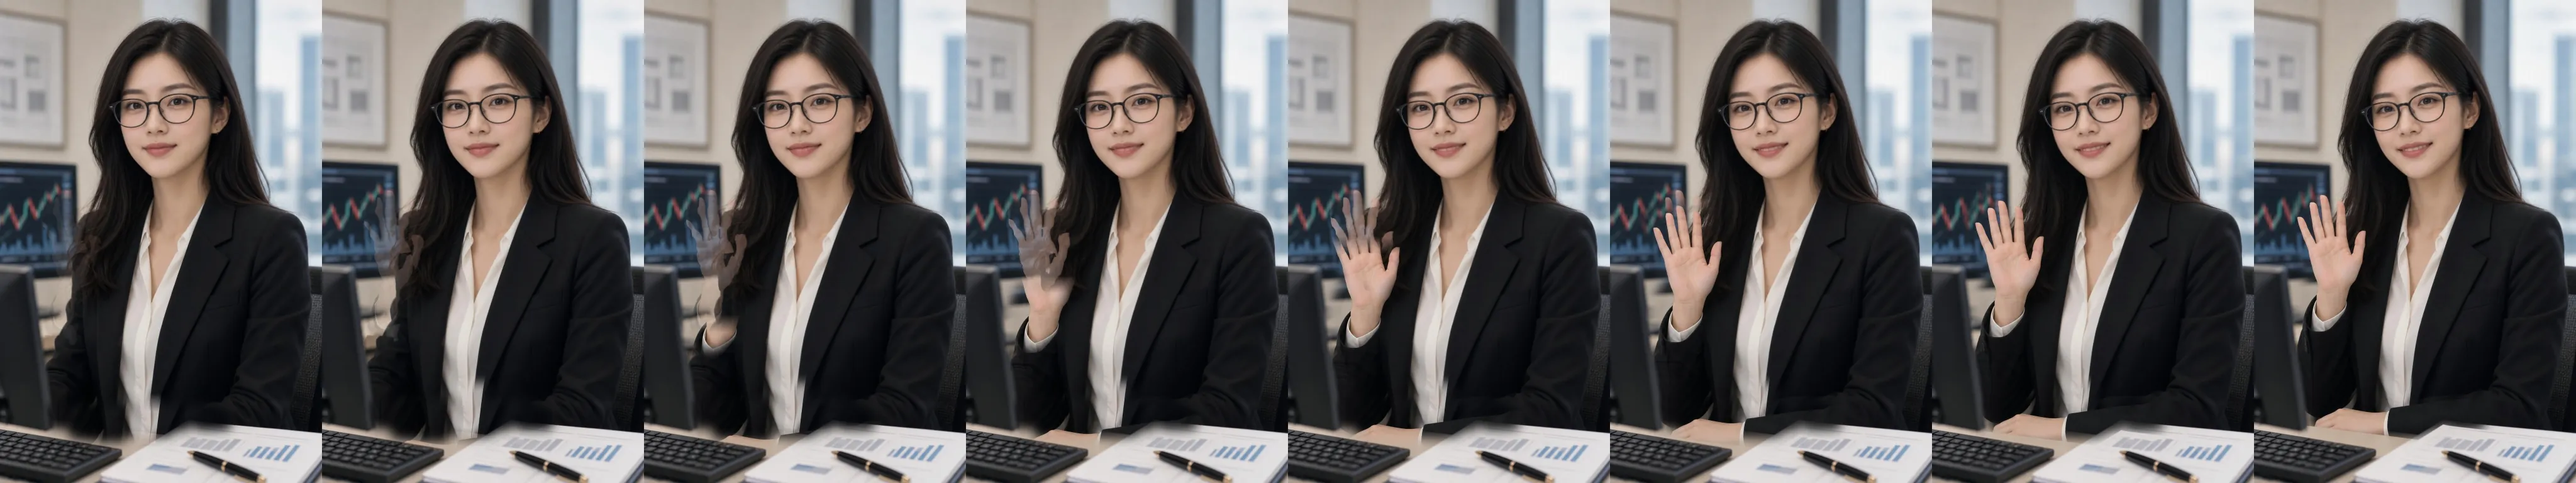
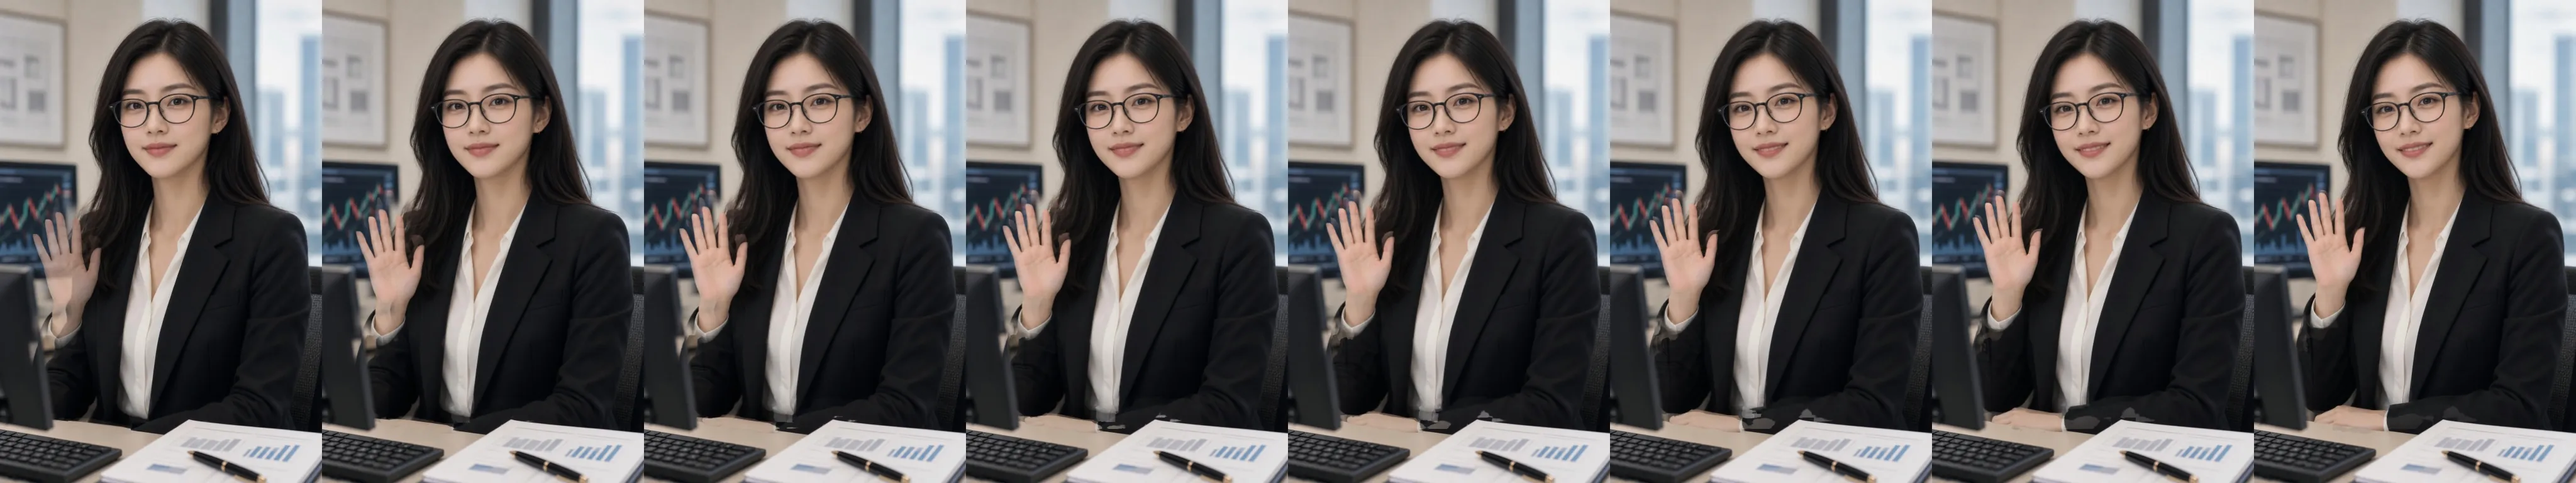
Let the rising hand travel from where it starts instead of wiping in
With the mid-rise keyframes in place, a raised hand is cut out of the
target frame (the skin only, so the dark sleeve stays with the dissolve)
and moves from where it begins to where it ends while gaining opacity: from
the lower hand pose when there is one, otherwise up over the bottom edge as
if from the lap. The earlier wipe pushed the whole frame down and uncovered
it from below, which showed a dark patch of blazer where the hand would be
and smeared the desk. Only the largest residual blob is treated as the
hand; smaller differences are left to the flow dissolve.

Claude-Session: https://claude.ai/code/session_01UoMk6AK8LDrTkKtKKWvV1s

diff --git a/tools/morph_frames.py b/tools/morph_frames.py
@@ -8,8 +8,9 @@ For each pair of poses (the resting portrait and the keyframes in fin-lab/assets
 this computes optical flow between the two photographs and synthesises K frames that warp
 and dissolve one into the other, so a blink closes gradually, a head tilt turns, and a
 hand rises into view instead of appearing.  Where something new enters the picture (a
-raised hand) the flow has nothing to track, so that region is revealed with a soft wipe
-from the bottom up while it slides into place.
+raised hand) the flow has nothing to track, so the hand is cut out of the target frame and
+travels from where it starts (the lower hand pose, or below its place) to where it ends,
+gaining opacity on the way.
 
 Output: fin-lab/assets/frames/morph/<a>-<b>.webp, a horizontal strip of the K in-betweens
 (played left to right for a -> b, right to left for b -> a), plus morph/manifest.json and
@@ -65,10 +66,10 @@ def main(argv: list[str] | None = None) -> int:
         return dis.calc(cv2.cvtColor(a, cv2.COLOR_BGR2GRAY), cv2.cvtColor(b, cv2.COLOR_BGR2GRAY), None)
 
     def appearance_mask(a, b, fab):
-        """Where b shows something that is not in a at all (a hand coming up).  A head turn or a
-        blink is explained by the flow, so warping a onto b leaves little residual there; a new
-        object leaves a large blob of residual.  Returns a feathered float mask in [0,1] and its
-        bounding box, or None."""
+        """The region of b that a cannot account for (a hand that is up in b): warping a onto b
+        with the flow leaves a large blob of residual there, while a head turn or a blink is
+        explained by the flow.  Returns a feathered float mask in [0,1] and its centroid (y, x),
+        or (None, None)."""
         ys, xs = np.mgrid[0:H, 0:W].astype(np.float32)
         warped = cv2.remap(a, xs - fab[..., 0], ys - fab[..., 1], cv2.INTER_LINEAR, borderMode=cv2.BORDER_REFLECT)
         diff = cv2.absdiff(cv2.cvtColor(warped, cv2.COLOR_BGR2GRAY), cv2.cvtColor(b, cv2.COLOR_BGR2GRAY))
@@ -76,27 +77,48 @@ def main(argv: list[str] | None = None) -> int:
         mask = (diff > 28).astype(np.uint8)
         mask = cv2.morphologyEx(mask, cv2.MORPH_OPEN, np.ones((7, 7), np.uint8))
         mask = cv2.morphologyEx(mask, cv2.MORPH_CLOSE, np.ones((31, 31), np.uint8))
-        mask = cv2.dilate(mask, np.ones((21, 21), np.uint8))
-        n, labels, stats, _ = cv2.connectedComponentsWithStats(mask)
-        keep = np.zeros_like(mask)
-        for i in range(1, n):
-            if stats[i, cv2.CC_STAT_AREA] > 0.012 * W * H:
-                keep[labels == i] = 1
-        if not keep.any():
+        mask = cv2.dilate(mask, np.ones((17, 17), np.uint8))
+        n, labels, stats, cents = cv2.connectedComponentsWithStats(mask)
+        if n < 2:
             return None, None
-        ys, xs = np.where(keep)
-        box = (xs.min(), ys.min(), xs.max(), ys.max())
-        feather = cv2.GaussianBlur(keep.astype(np.float32), (0, 0), 8)
-        return np.clip(feather / max(feather.max(), 1e-6), 0, 1), box
+        # the hand is the largest blob; smaller differences (a sleeve on the desk) are left to the dissolve
+        big = 1 + int(np.argmax(stats[1:, cv2.CC_STAT_AREA]))
+        if stats[big, cv2.CC_STAT_AREA] < 0.012 * W * H:
+            return None, None
+        keep = (labels == big).astype(np.uint8)
+        # only the hand travels: the dark sleeve stays with the dissolve, so it never smears
+        # across the desk on its way up
+        ycc = cv2.cvtColor(b, cv2.COLOR_BGR2YCrCb)
+        skin = ((ycc[..., 1] > 133) & (ycc[..., 1] < 178) & (ycc[..., 2] > 80) & (ycc[..., 2] < 135) & (ycc[..., 0] > 60)).astype(np.uint8)
+        skin = cv2.morphologyEx(skin, cv2.MORPH_CLOSE, np.ones((9, 9), np.uint8))
+        skin = cv2.dilate(skin, np.ones((7, 7), np.uint8))
+        hand = keep & skin
+        if hand.sum() > 0.004 * W * H:
+            keep = hand
+        ys_k, xs_k = np.where(keep)
+        feather = cv2.GaussianBlur(keep.astype(np.float32), (0, 0), 6)
+        return np.clip(feather / max(feather.max(), 1e-6), 0, 1), (float(ys_k.mean()), float(xs_k.mean()))
+
+    def shift(img, dy, dx):
+        M = np.float32([[1, 0, dx], [0, 1, dy]])
+        return cv2.warpAffine(img, M, (W, H), flags=cv2.INTER_LINEAR, borderMode=cv2.BORDER_REFLECT)
 
     def inbetweens(a, b, k, rise):
-        """rise: 'b' when b brings a hand up, 'a' when a's raised hand goes down (built as the
-        reverse of the rising sequence), None for flow-only transitions."""
+        """rise: 'b' when b's hand is higher than a's (or a has none), 'a' for the reverse (built
+        as the reverse of the rising sequence), None for flow-only transitions."""
         if rise == "a":
             frames, wiped = inbetweens(b, a, k, "b")
             return frames[::-1], wiped
         fab, fba = flow(a, b), flow(b, a)
-        mask, box = appearance_mask(a, b, fab) if rise == "b" else (None, None)
+        mask, cent = appearance_mask(a, b, fab) if rise == "b" else (None, None)
+        travel = None
+        if mask is not None:
+            # Where does the hand start?  At a's hand if a has one up, otherwise below its place.
+            mask_a, cent_a = appearance_mask(b, a, fba)
+            if mask_a is not None and cent_a[0] > cent[0]:
+                travel = (cent_a[0] - cent[0], cent_a[1] - cent[1])
+            else:
+                travel = (0.32 * H, 0.0)     # from the lap: it enters over the bottom edge
         ys, xs = np.mgrid[0:H, 0:W].astype(np.float32)
         frames = []
         for i in range(1, k + 1):
@@ -105,16 +127,12 @@ def main(argv: list[str] | None = None) -> int:
             wb = cv2.remap(b, xs - (1 - te) * fba[..., 0], ys - (1 - te) * fba[..., 1], cv2.INTER_LINEAR, borderMode=cv2.BORDER_REFLECT)
             out = cv2.addWeighted(wa, 1 - te, wb, te, 0).astype(np.float32)
             if mask is not None:
-                # The new thing slides up into place while a soft wipe uncovers it from below.
-                x0, y0, x1, y1 = box
-                rise = int(0.10 * H * (1 - te))
-                shifted = np.roll(b, rise, axis=0).astype(np.float32)
-                if rise:
-                    shifted[:rise] = b[:rise]
-                line = y1 - (y1 - y0 + 40) * min(1.0, te * 1.25)          # wipe front, moving up
-                wipe = np.clip((ys - line) / 28.0 + 0.5, 0, 1)             # 1 below the front, 0 above
-                alpha = (mask * wipe)[..., None]
-                out = out * (1 - alpha) + shifted * alpha
+                # The hand itself travels from where it starts to where it ends, gaining opacity
+                # on the way, drawn over the dissolve of everything else.
+                dy, dx = travel[0] * (1 - te), travel[1] * (1 - te)
+                hand = shift(b, dy, dx).astype(np.float32)
+                alpha = (shift(mask, dy, dx) * min(1.0, 0.45 + te * 2.2))[..., None]
+                out = out * (1 - alpha) + hand * alpha
             frames.append(np.clip(out, 0, 255).astype(np.uint8))
         return frames, mask is not None
 
@@ -135,7 +153,7 @@ def main(argv: list[str] | None = None) -> int:
         out = OUT / f"{a_id}-{b_id}.webp"
         Image.fromarray(strip).save(out, "WEBP", quality=args.quality, method=6)
         manifest["pairs"].append(f"{a_id}-{b_id}")
-        print(f"wrote {out.relative_to(ROOT)}  {strip.shape[1]}x{strip.shape[0]}  {out.stat().st_size // 1024} KB" + ("  (rise wipe)" if wiped else ""))
+        print(f"wrote {out.relative_to(ROOT)}  {strip.shape[1]}x{strip.shape[0]}  {out.stat().st_size // 1024} KB" + ("  (hand travel)" if wiped else ""))
     for pose, mid in VIA.items():
         if path(mid).exists() and path(pose).exists():
             manifest["via"][pose] = mid
